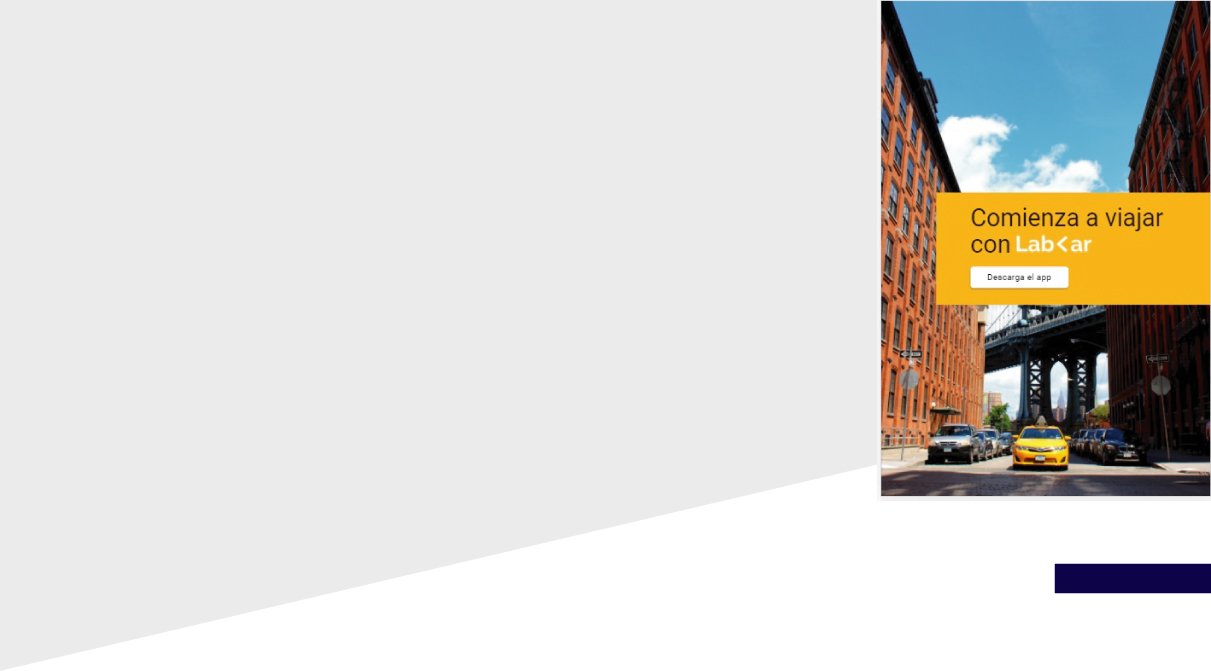
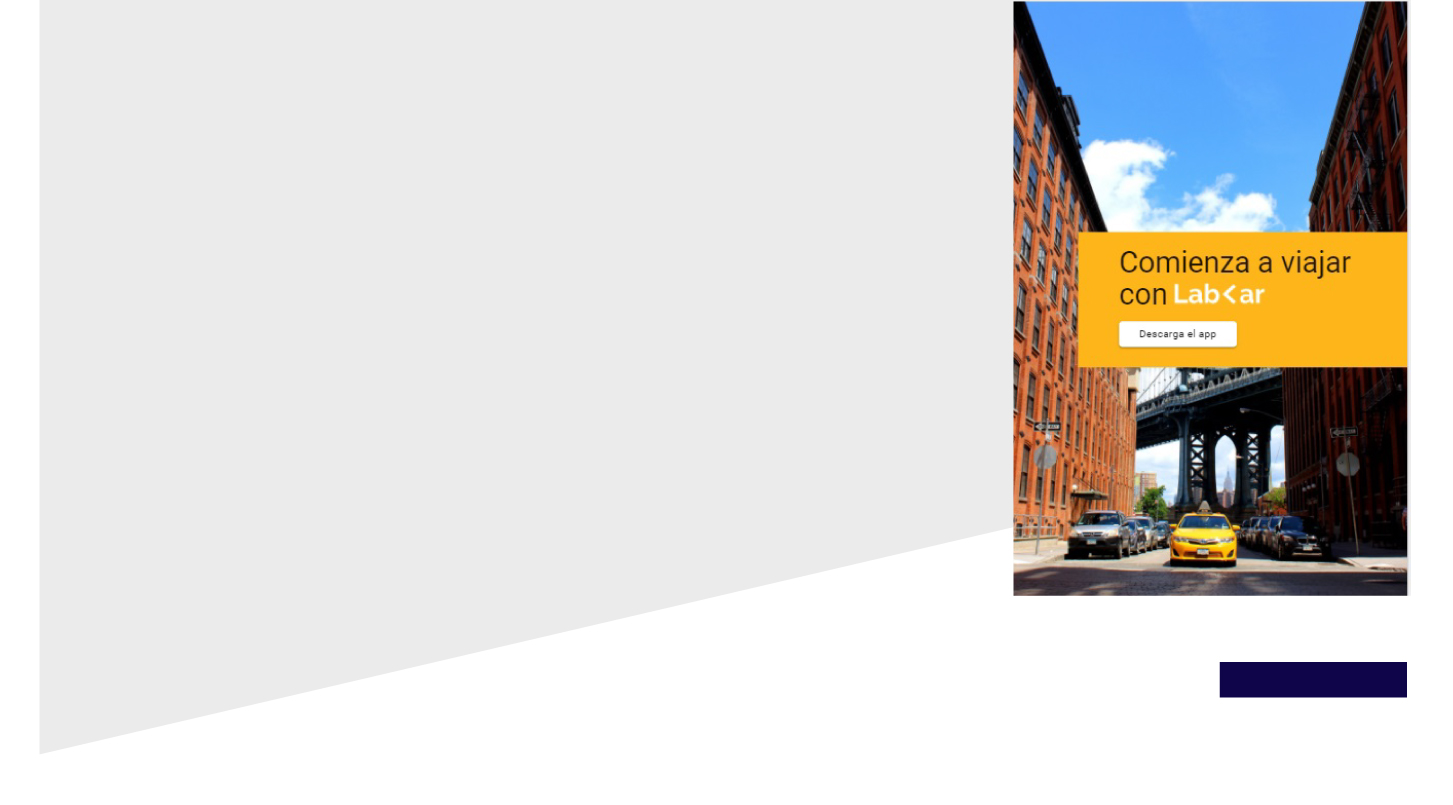
Alineación de elementos de la vista work

Changed region(s): [[0.6722, 0.0, 1.0, 0.7452], [0.8249, 0.8048, 1.0, 0.8942]]

diff --git a/views/work.html b/views/work.html
@@ -14,6 +14,18 @@
 </head>
   <main>
     <div class="row">
+        <div class="frame-fixed hide nav-scroll">
+            <!--  <div class="menu-icon">
+                <i class="material-icons">menu</i>
+              </div> -->
+              <div class="menu-fixed-scroll">
+                <ul class="ul-scroll">
+                  <li class="about"><span>About me</span></li>
+                  <li class="work"><span>Portafolio</span></li>
+                  <li class="contact"><span>Contact</span></li>
+                </ul>
+              </div>
+            </div> 
       <div class="col l5 offset-l1 vh80 back-gray display-flex">
         <p class="text">
           <span class="letter-bold white-text">P</span>
@@ -29,7 +41,7 @@
         </p>
       </div>
       <div class="col l6 display-flex-around vh80">
-         <div class="frame">
+         <div class="frame nav-home">
         <!--  <div class="menu-icon">
             <i class="material-icons">menu</i>
           </div> -->
@@ -47,39 +59,26 @@
       </div>
        
     </div>
-    <!--
-    <div class="frame">
-        <div class="menu-icon">
-          <i class="material-icons">menu</i>
-        </div>
-        <div class="menu">
-          <ul>
-            <li><span>Home</span></li>
-            <li class="work"><span>Work</span></li>
-            <li><span>Contact</span></li>
-          </ul>
-        </div>
-      </div> -->
   </main>
 
   <section class="repository">
     <div class="row">
-      <div class="col l12 lyft">
+      <!--checkbus -->
+      <div class="col l12  check-bus">
         <div class="col l5 offset-l2 container-description">
-          <p class="proyect-title">aplicación lyft</p>
-          <P class="col l10 offset-l1 proyect-description"> Maquetado y diseño responsive, siguiendo la línea de colores de la marca.
-          Funcionalidad de registro y verificación de usuario.</P>
+          <p class="proyect-title">Check Bus</p>
+          <P class="col l10 offset-l1 proyect-description">Reto UX Designer. Crear un producto que mejore el servicio y la atención de los usuarios que viajan con buses interprovinciales. </P>
           <div class=" col l8 offset-l3 logos-tools mg-4em">
-              <img src="../assets/images/logos.png" alt=""/>  
+              <img src="../assets/logo/logo-check.png" alt=""/>  
           </div>
           <p class="col l6 offset-l3 title-solution">Solución</p>
-          <p class="col l10 offset-l1 text-solution mg-2em">Diseño responsive minimalista. Utilicé el color predominanate de la marca para resaltar los encabezados y los puntos call to action.
-          Implementé un sistema de registro a través del número teléfonico y una verificación codificada.</p>
+          <p class="col l10 offset-l1 text-solution mg-2em"> Check Bus, trabaja de la mano con las empresas de transporte. Permite al usuario calificar los servicios brindados, presentar reclamos y tener un respuesta de la mismos. Y así asegurarse que el servicio por el que se paga, sea eficiente y mejore en cada viaje.  
+          </p>
           <div class="col l6 offset-l4 mg-4em">
-            <a href="https://github.com/Yelitza3125/lyft-app" target="_blank" class="btn-github">GitHub</a>
+            <a href="" target="_blank" class="btn-github">GitHub</a>
            </div>
         </div>  
-      </div>
+      </div>     
     </div>
   </section>
 
@@ -130,22 +129,22 @@
 
   <section class="mg-8em">
       <div class="row">
-        <!--cincritica -->
-        <div class="col l12  check-bus">
+        <div class="col l12 lyft">
           <div class="col l5 offset-l2 container-description">
-            <p class="proyect-title">Check Bus</p>
-            <P class="col l10 offset-l1 proyect-description">Reto UX Designer. Crear un producto que mejore el servicio y la atención de los usuarios que viajan con buses interprovinciales. </P>
+            <p class="proyect-title">aplicación lyft</p>
+            <P class="col l10 offset-l1 proyect-description"> Maquetado y diseño responsive, siguiendo la línea de colores de la marca.
+            Funcionalidad de registro y verificación de usuario.</P>
             <div class=" col l8 offset-l3 logos-tools mg-4em">
-                <img src="../assets/logo/logo-check.png" alt=""/>  
+                <img src="../assets/images/logos.png" alt=""/>  
             </div>
             <p class="col l6 offset-l3 title-solution">Solución</p>
-            <p class="col l10 offset-l1 text-solution mg-2em"> Check Bus, trabaja de la mano con las empresas de transporte. Permite al usuario calificar los servicios brindados, presentar reclamos y tener un respuesta de la mismos. Y así asegurarse que el servicio por el que se paga, sea eficiente y mejore en cada viaje.  
-            </p>
+            <p class="col l10 offset-l1 text-solution mg-2em">Diseño responsive minimalista. Utilicé el color predominanate de la marca para resaltar los encabezados y los puntos call to action.
+            Implementé un sistema de registro a través del número teléfonico y una verificación codificada.</p>
             <div class="col l6 offset-l4 mg-4em">
-              <a href="" target="_blank" class="btn-github">GitHub</a>
+              <a href="https://github.com/Yelitza3125/lyft-app" target="_blank" class="btn-github">GitHub</a>
              </div>
           </div>  
-        </div>     
+        </div>
       </div>
     </section>
 

diff --git a/css/main.css b/css/main.css
@@ -209,13 +209,7 @@ hr {
 .frame-fixed {
   width: 100%;
 }
-/*
-.menu {
-    padding: 0 10px;
-    opacity: 0;
-    pointer-events: none;
-    transition: all .5s ease-in-out;
-}     */
+
 .menu-fixed {
 	position:fixed;
 	z-index:1000;
@@ -258,81 +252,15 @@ hr {
 }  
     
 .menu ul li {
-    position: relative;
-    display: block;
-    flex: 0 1 auto;
-    margin: 0;
-    padding: 0;
     cursor: pointer;
     transition: all .3s ease-in-out;
 }   
       
 .menu ul li :hover {
-  color: #000249; 
-    /*opacity: 0.6; */
+    color: #000249; 
     text-decoration: underline;
 }
 
-/*estilo nav bar 
-
-
-.active {
-    opacity: 1;
-    pointer-events: all;
-    transition: all .5s ease-in-out .5s;
-}
-    
-.menu ul {
-    display: flex;
-    flex-direction: column;
-    align-items: center;
-    justify-content: space-between;
-    list-style: none;
-    font-size: 16px;
-    line-height: 20px;
-    font-weight: 600;
-    text-transform: uppercase;
-    width: 280px;
-    margin: 0;
-    padding: 0;
-}  
-    
-.menu ul li {
-    position: relative;
-    display: block;
-    flex: 0 1 auto;
-    margin: 0;
-    padding: 0;
-    cursor: pointer;
-    transition: all .3s ease-in-out;
-}   
-      
-.menu ul li :hover {
-  color: #000249; 
-    /*opacity: 0.6; 
-    text-decoration: underline;
-} 
-
-
-.frame {
-  position: fixed;
-  top: 50%;
-  right: 40px;
-  width: auto;
-  height: 100%;
-  list-style: none;
-  line-height: 20px;
-  text-align: right;
-  }
-
-  /*
- .frame li a {
-  display: inline-block;
-  padding: 20px;
-  color: #D4D4D4;
-  text-decoration: undeline;
-  border-right: 4px solid transparent;
-  } */
   
   .habilities {
     height: 20vh;
@@ -445,7 +373,7 @@ h4.white-text {
 }
 
 
-@media (max-width: 722px) {
+@media (max-width: 722px ) {
   
 
   .fz-10em {
@@ -509,4 +437,5 @@ h4.white-text {
 .skills .mg-2em {
   margin-top: 0;
 }
+
 }

diff --git a/css/work.css b/css/work.css
@@ -57,13 +57,6 @@
   cursor: pointer;
 }
 
-/*
-.menu {
-    padding: 0 10px;
-    opacity: 0;
-    pointer-events: none;
-    transition: all .5s ease-in-out;
-}     */
 
     
 .menu ul {
@@ -81,6 +74,9 @@
     padding: 0;
 }  
     
+.ul-scroll {
+  margin: 0 auto !important;
+}
 .menu ul li {
     cursor: pointer;
     transition: all .3s ease-in-out;
@@ -88,22 +84,23 @@
       
 .menu ul li :hover {
   color: #000249; 
-    /*opacity: 0.6; */
-    text-decoration: underline;
+  text-decoration: underline;
+}
+
+.frame-fixed {
+  width: 100%;
+}
+
+.menu-fixed {
+	position:fixed;
+	z-index:1000;
+	top:0;
+  width:100%;
+  padding: 2em;
+  background-color: #fff;
 }
 
 
-/*
-.frame {
-  position: fixed;
-  top: 50%;
-  right: 40px;
-  width: auto;
-  height: 100%;
-  list-style: none;
-  line-height: 20px;
-  text-align: right;
-  } */
 
 .display-flex-column{
   display: flex;

diff --git a/js/app.js b/js/app.js
@@ -6,14 +6,11 @@ $(document).ready(function() {
     if ($(window).scrollTop() > altura) {
       $('.figure-container').addClass('hide');
       $('.menu').addClass('menu-fixed');
-      $('.nav-home').removeClass('frame');
-      $('.nav-home').addClass('frame-fixed');
-      
+      $('.nav-home').addClass('frame-fixed'); 
     } else {
       $('.figure-container').removeClass('hide');
       $('.menu').removeClass('menu-fixed');
       $('.nav-home').removeClass('frame-fixed');
-      $('.nav-home').addClass('frame');
     }
   });
 

diff --git a/js/work.js b/js/work.js
@@ -1,5 +1,18 @@
 
 $(document).ready(function() {
+
+  var altura = $('.resume-work').offset().top;
+	
+  $(window).on('scroll', function() {
+    if ($(window).scrollTop() > altura) {
+      $('.nav-scroll').removeClass('hide');
+      $('.nav-scroll').addClass('frame');
+      $('.menu-fixed-scroll').addClass('menu')
+      $('.menu-fixed-scroll').addClass('menu-fixed')  
+    } else {
+      $('.nav-scroll').addClass('hide');
+    }
+  });
   /* Funcionalidad del navbar */
 
   /*
